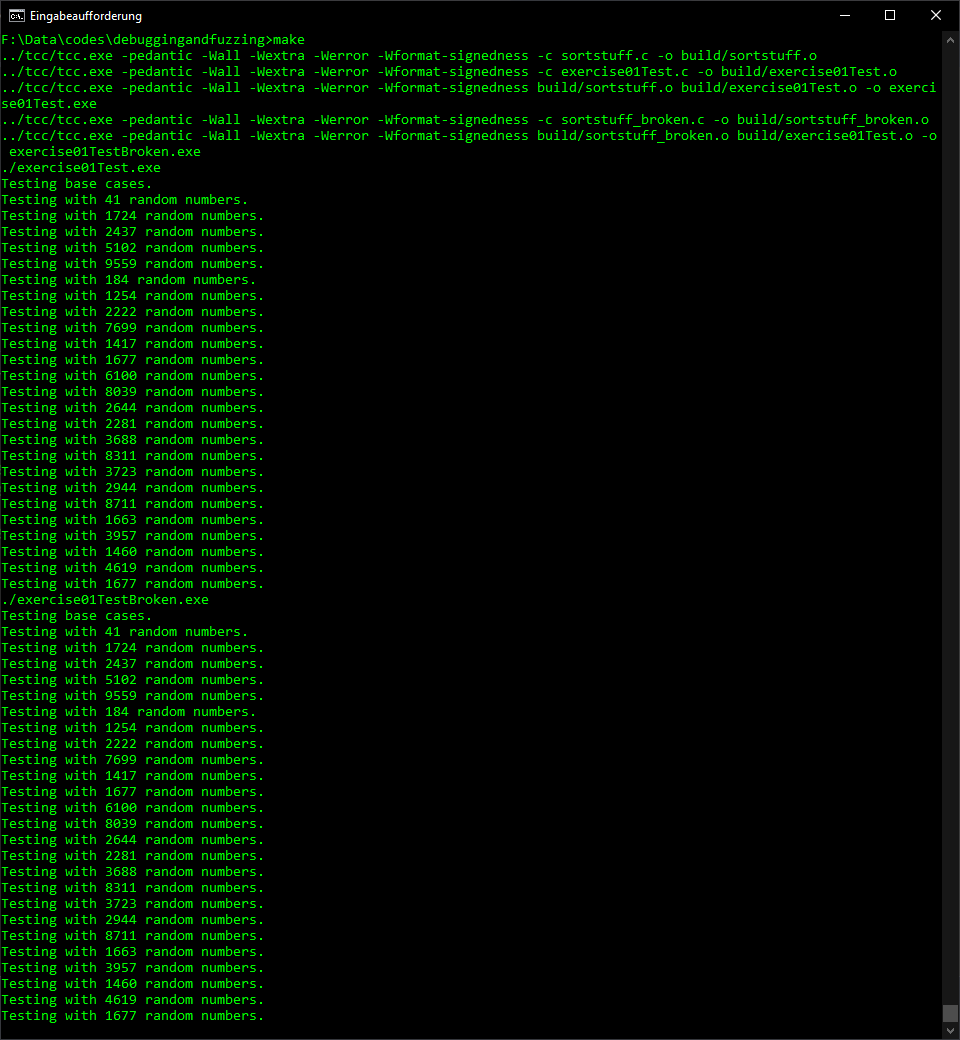
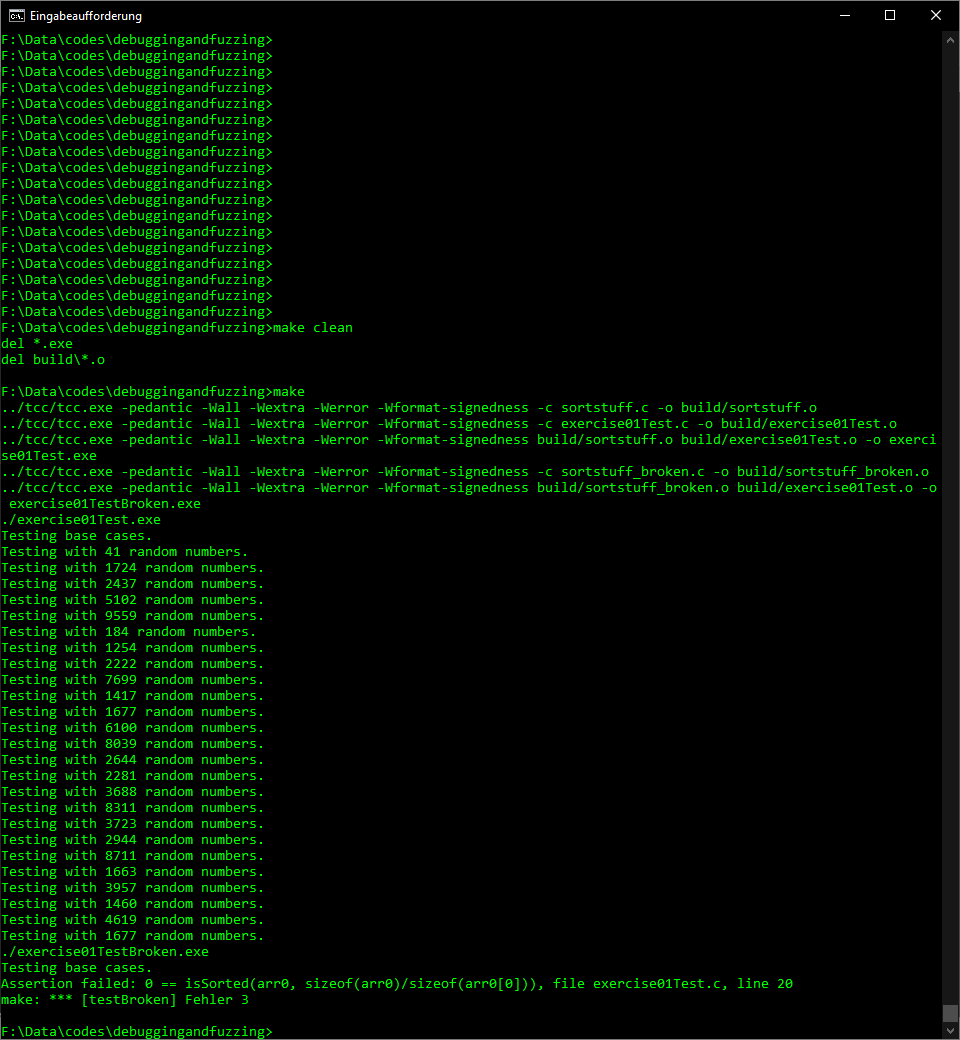
Added minor errors to broken library.

diff --git a/sortstuff_broken.c b/sortstuff_broken.c
@@ -14,7 +14,7 @@ uint8_t SortArray(int32_t* arr, size_t n) {
 	// Simple, yet inefficient way of sorting.
 	while(changed > 0) {
 		changed = 0;
-		for(size_t pos = 1; pos < n; pos++) {
+		for(size_t pos = 1; pos <= n; pos++) {
 			if(arr[pos] < arr[pos-1]) {
 				tmp = arr[pos];
 				arr[pos] = arr[pos-1];
@@ -45,7 +45,7 @@ uint8_t BinarySearch(int32_t number, int32_t* arr, size_t n) {
 	return 1;
 }
 bool isSorted(int32_t* arr, size_t n) {
-	return (checkSorting(arr, n) & ORDER_ASC) > 0;
+	return (checkSorting(arr, n)) > 0;
 }
 
 uint8_t checkSorting(int32_t* arr, size_t n) {
